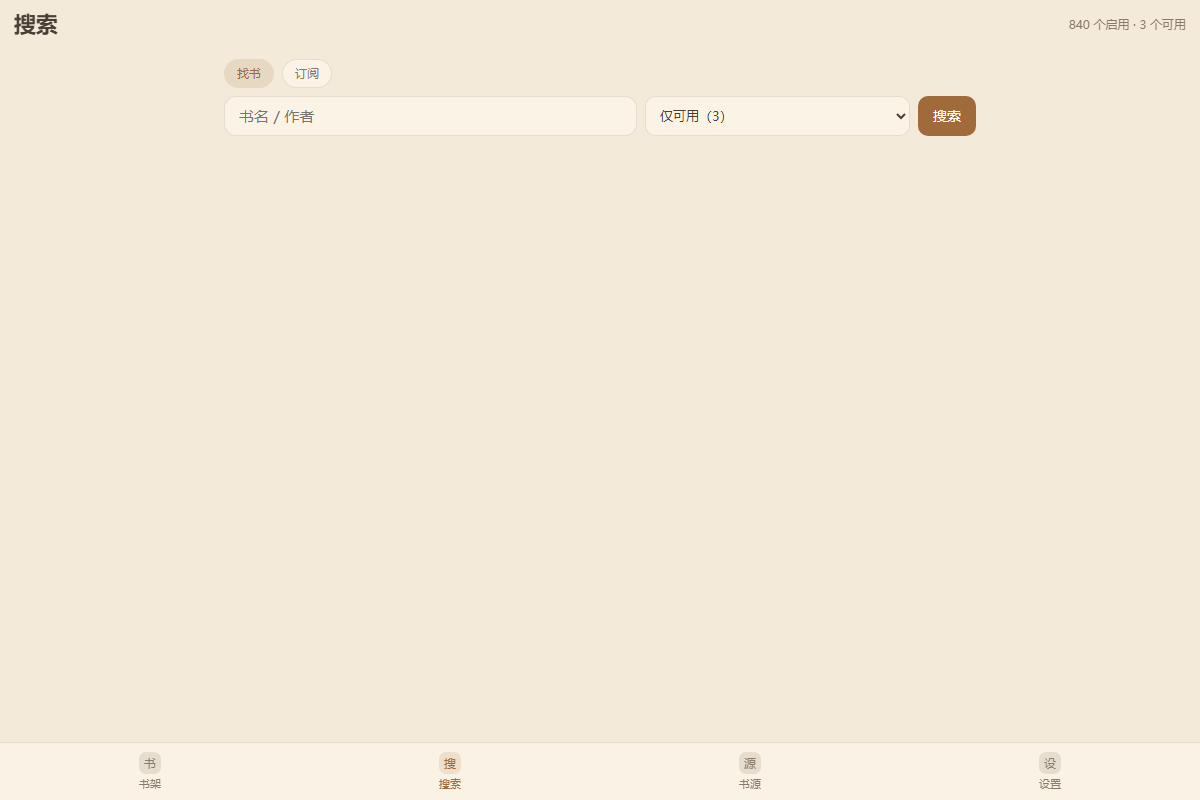
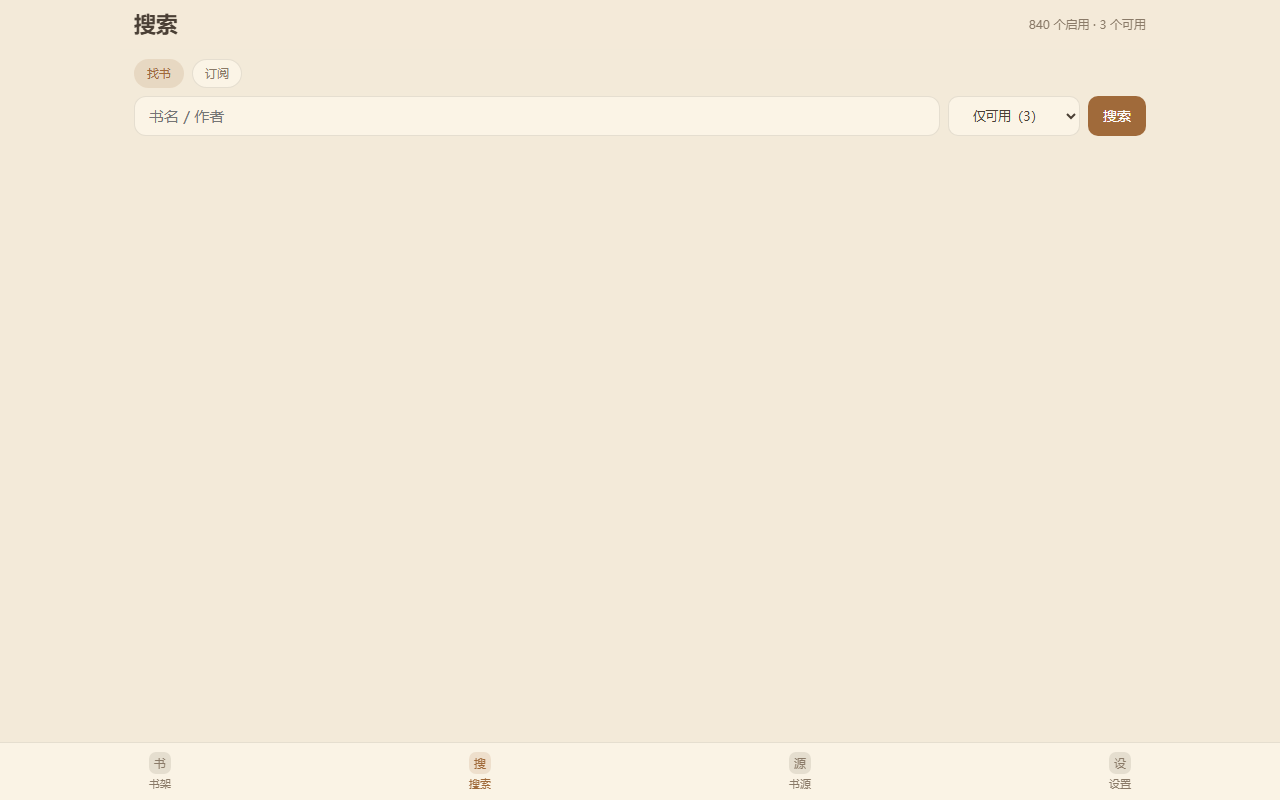
fix(v1.7.23): 底栏栅格 minmax(0,1fr)，窄屏不挤出屏幕

diff --git a/legado-web/app/web/app.js b/legado-web/app/web/app.js
@@ -1686,7 +1686,7 @@ async function renderSettings() {
         <h3>关于</h3>
         <div class="row" id="open-help" style="cursor:pointer"><div class="label">使用帮助<div class="desc">各版块功能与常用操作</div></div><span style="color:var(--text-2)">›</span></div>
         <div class="row" id="open-log" style="cursor:pointer"><div class="label">更新日志<div class="desc" id="log-row-ver">查看历史版本</div></div><span style="color:var(--text-2)">›</span></div>
-        <div class="row"><div class="label">阅读 · fnOS 网页版<div class="desc">版本 V1.7.22 · 兼容 Legado 3.x 书源规则</div></div></div>
+        <div class="row"><div class="label">阅读 · fnOS 网页版<div class="desc">版本 V1.7.23 · 兼容 Legado 3.x 书源规则</div></div></div>
       </div>`;
 
     const helpRow = $('#open-help');

diff --git a/legado-web/app/web/index.html b/legado-web/app/web/index.html
@@ -4,10 +4,10 @@
   <meta charset="UTF-8" />
   <meta name="viewport" content="width=device-width, initial-scale=1.0, viewport-fit=cover" />
   <meta name="theme-color" content="#f5f5f7" />
-  <meta name="app-version" content="1.7.22" />
+  <meta name="app-version" content="1.7.23" />
   <title>阅读</title>
   <link rel="icon" href="./icon.svg" />
-  <link rel="stylesheet" href="./style.css?v=1.7.22" />
+  <link rel="stylesheet" href="./style.css?v=1.7.23" />
 </head>
 <body>
   <div id="app">
@@ -42,6 +42,6 @@
   } catch (e) {}
 })();
 </script>
-  <script src="./app.js?v=1.7.22"></script>
+  <script src="./app.js?v=1.7.23"></script>
 </body>
 </html>

diff --git a/legado-web/app/web/style.css b/legado-web/app/web/style.css
@@ -59,13 +59,14 @@ input, textarea, select { font: inherit; color: inherit; }
   height: calc(var(--tabbar-h) + env(safe-area-inset-bottom, 0px));
   padding-bottom: env(safe-area-inset-bottom, 0px);
   display: grid;
-  grid-template-columns: repeat(4, 1fr);
+  grid-template-columns: repeat(4, minmax(0, 1fr));
   background: color-mix(in srgb, var(--panel) 88%, transparent);
   backdrop-filter: blur(18px);
   border-top: 1px solid var(--line);
   z-index: 20;
 }
 .tabbar a {
+  min-width: 0; overflow: hidden;
   display: flex; flex-direction: column; align-items: center; justify-content: center;
   gap: 3px; font-size: 11px; color: var(--text-2);
 }

diff --git a/docs/更新日志.md b/docs/更新日志.md
@@ -5,6 +5,11 @@
 
 ---
 
+## 1.7.23 — 2026-11-08
+
+- 底栏栅格用 minmax(0,1fr) 防止内容撑宽，窄屏四个标签不会被挤出屏幕。
+---
+
 ## 1.7.22 — 2026-11-08
 
 - 布局自适应：内容整体居中限宽
